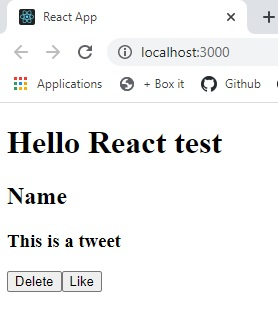
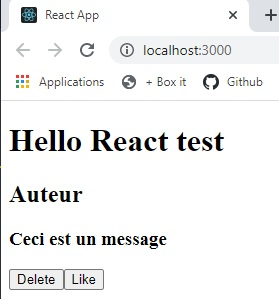
update img + text Props

diff --git a/React/react.md b/React/react.md
@@ -588,7 +588,7 @@ Puis on peut commencer à implémenter son code:
     const Tweet = () => {
         return(
             <h2>Auteur</h2>
-            <h3>Message</h3>
+            <h3>Ceci est un message</h3>
             <button>Delete</button>
             <button>Like</button>
         );
@@ -604,7 +604,7 @@ En résumé il faut une DIV pour contenir notre code JSX, comme ci dessous:
         return(
             <div>
                 <h2>Auteur</h2>
-                <h3>Message</h3>
+                <h3>Ceci est un message</h3>
                 <button>Delete</button>
                 <button>Like</button>
             </div>
@@ -617,7 +617,7 @@ on ne peux pas faire:
         return(
             <div>
                 <h2>Auteur</h2>
-                <h3>Message</h3>
+                <h3>Ceci est un message</h3>
                 <button>Delete</button>
                 <button>Like</button>
             </div>
@@ -633,7 +633,7 @@ Pour rappel, ce qui se passe en arrière plan en Javascript:
 
     React.createElement("div", null, [
         React.createElement("h2", null, "Auteur");
-        React.createElement("h3", null, "Message");
+        React.createElement("h3", null, "Ceci est un message");
         React.createElement("button", null, "Delete");
         React.createElement("button", null, "Like");
     ])
@@ -650,7 +650,7 @@ Et pour terminer, nous allons donner un nom de classe à notre div(anneau):
         return(
             <div className="Tweet">
                 <h2>Auteur</h2>
-                <h3>Message</h3>
+                <h3>Ceci est un message</h3>
                 <button>Delete</button>
                 <button>Like</button>
             </div>
@@ -682,3 +682,5 @@ Retour sur App.js:
 Petit test visuel avec **npm start** dans la console de notre terminal VSC:
 
 ![](./img/testapptweet.jpg)
+
+Wow Génial, c'est méga moche mais on a notre Auteur, message, et nos boutons! C'est un bon début :)
